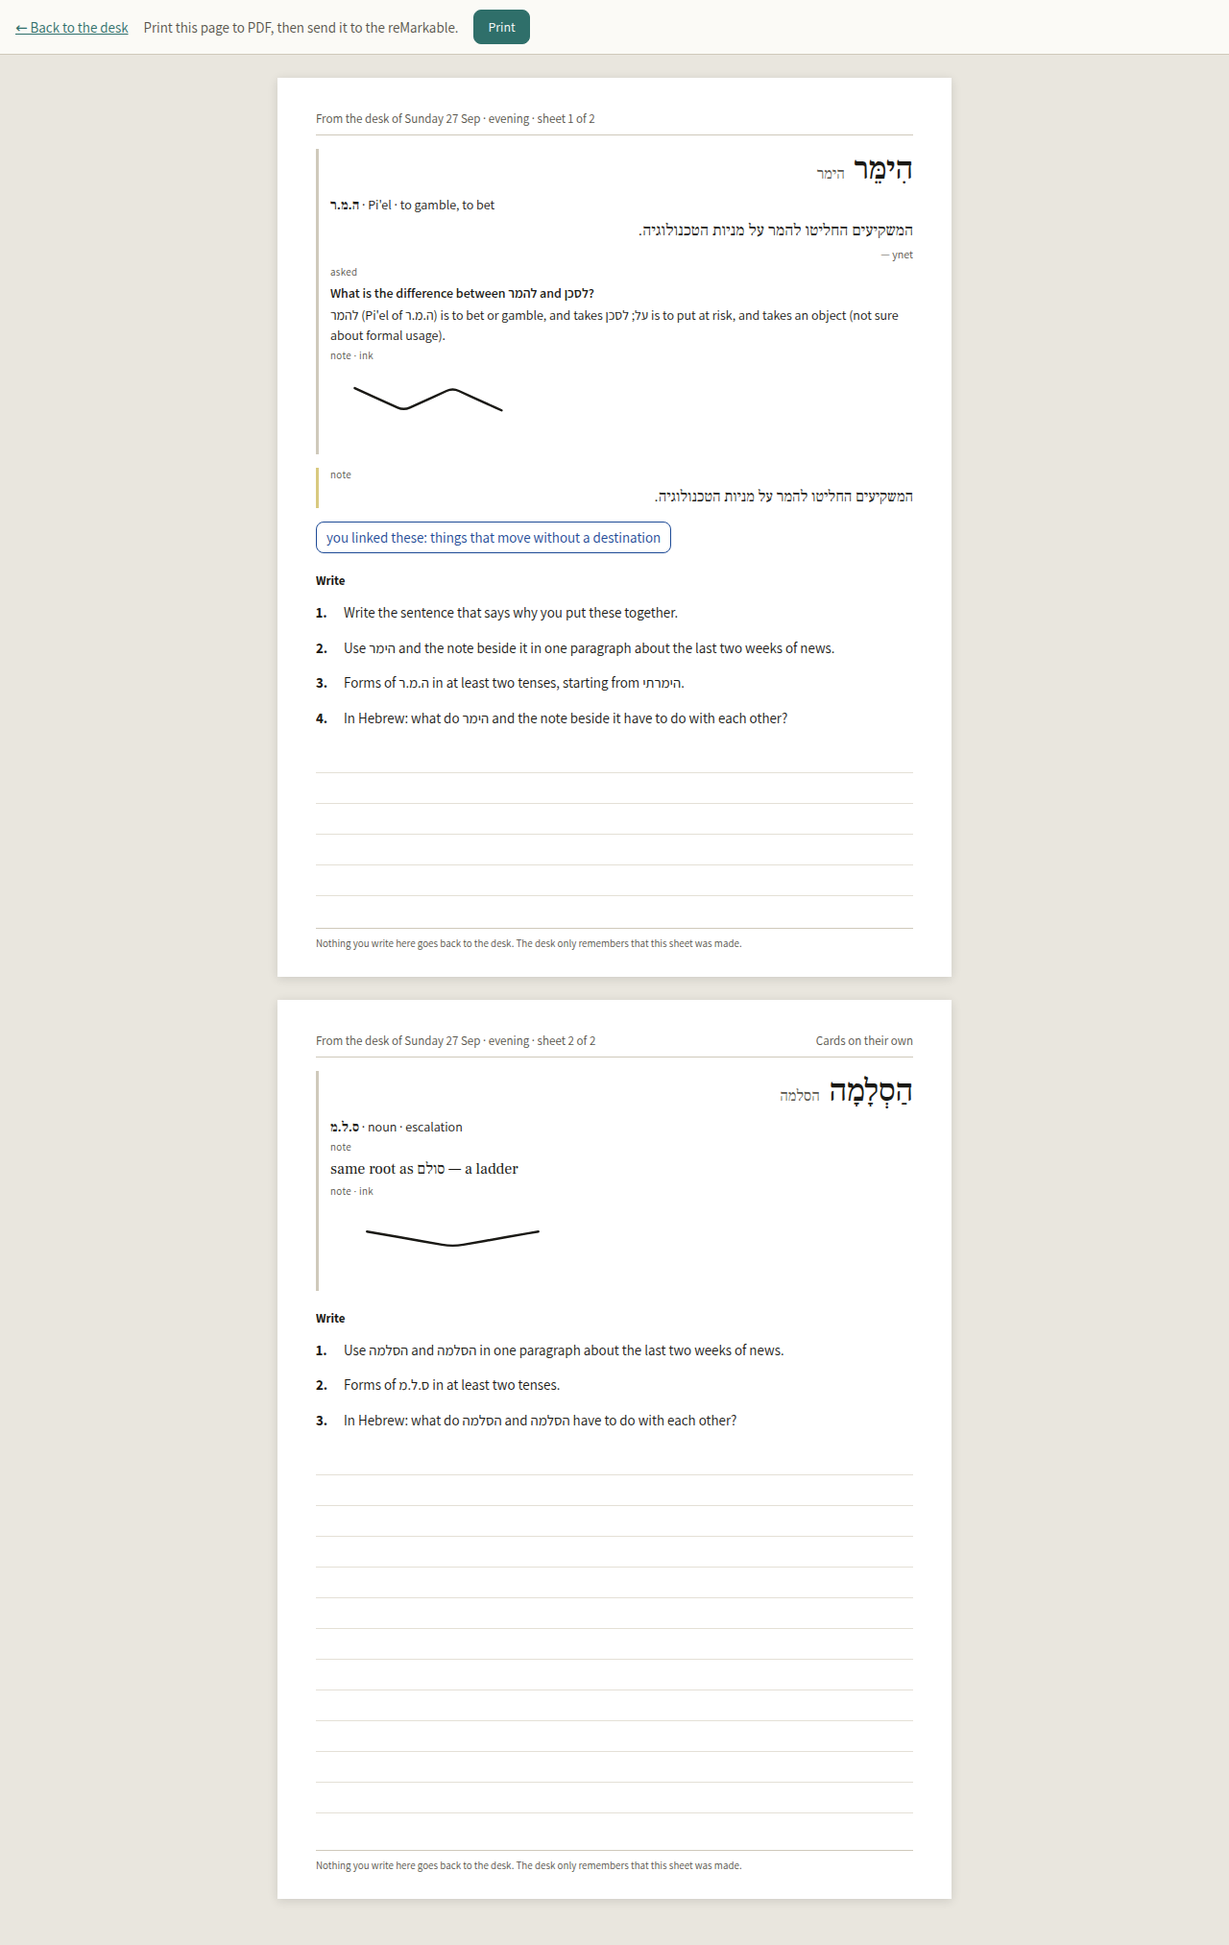
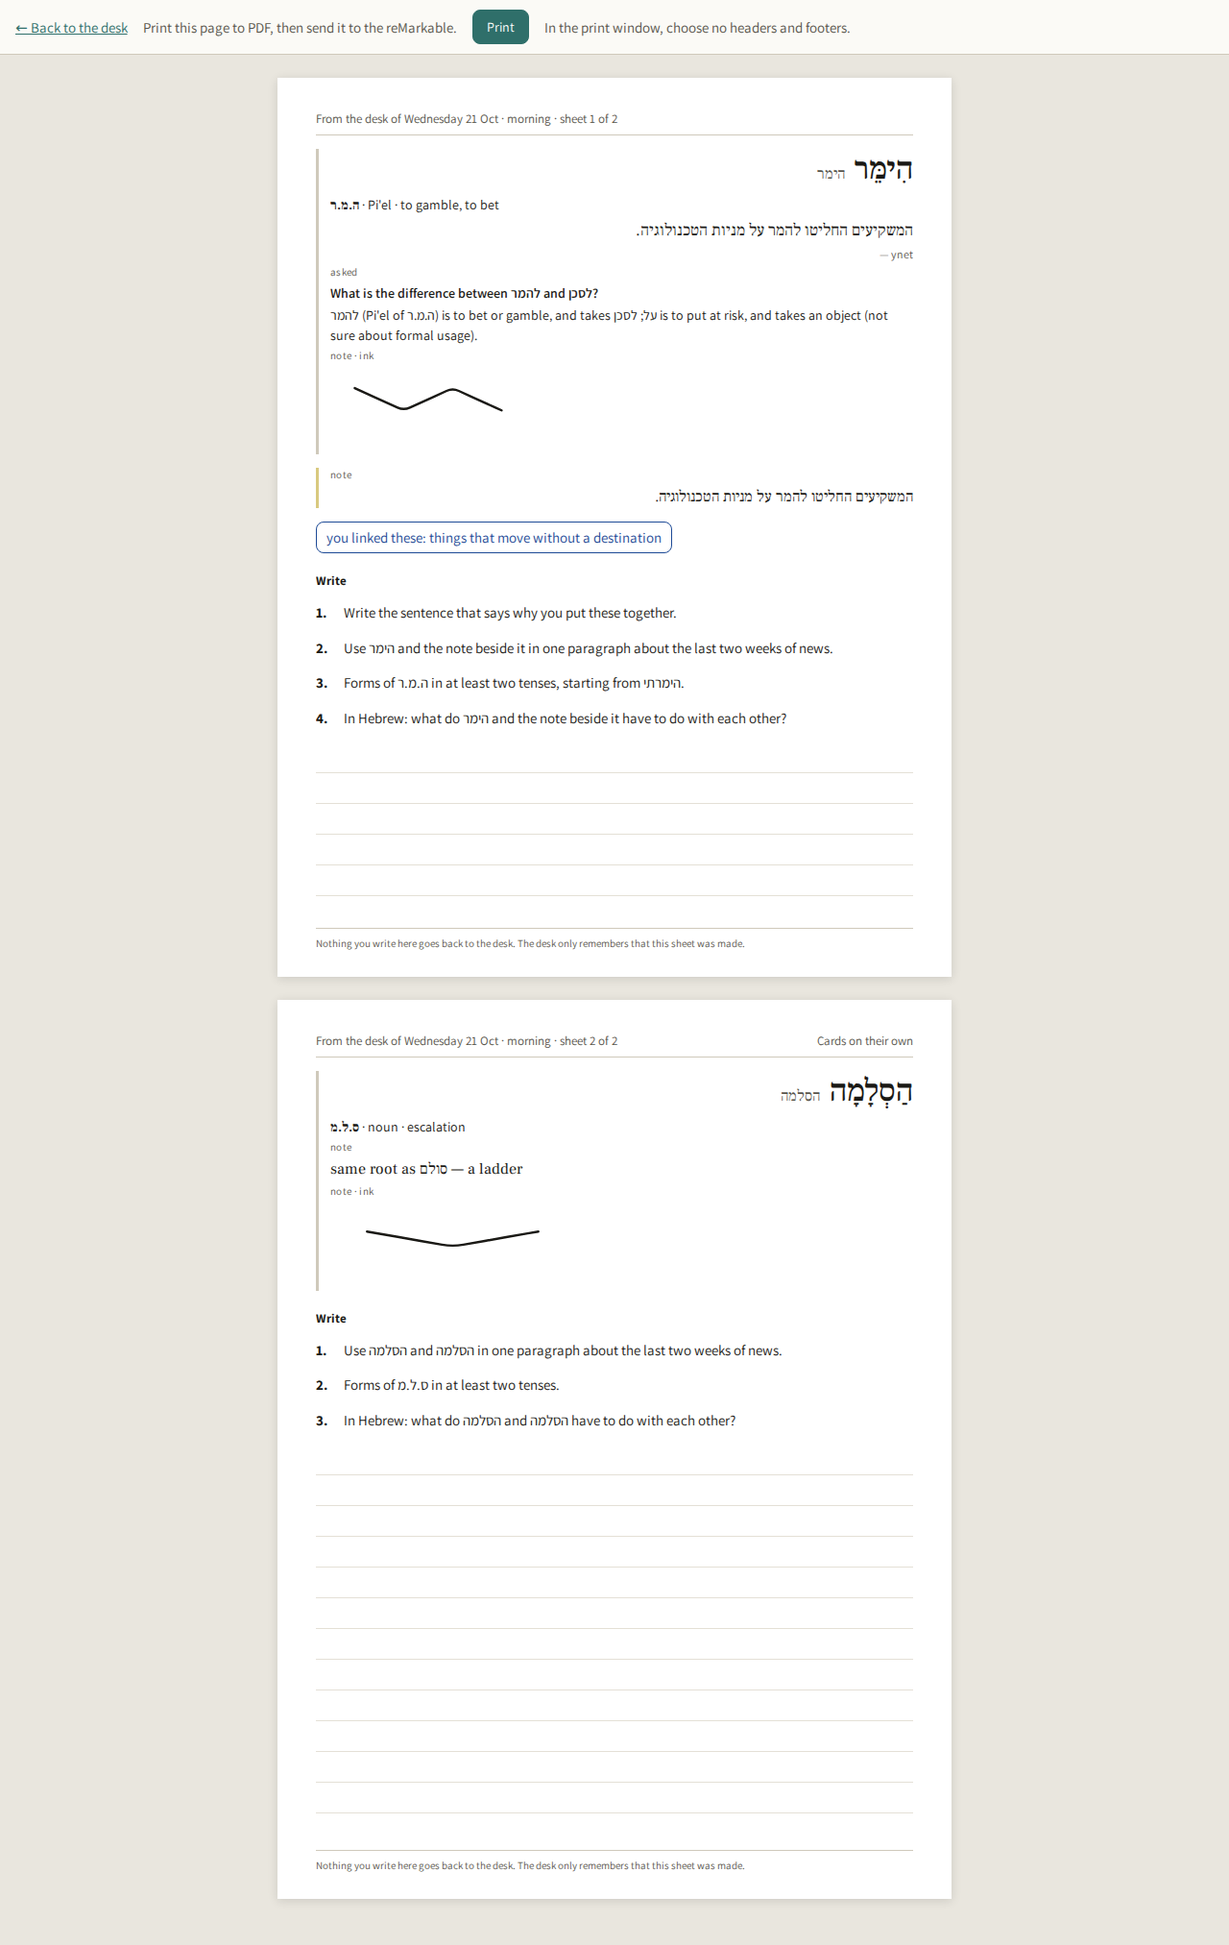
Ask step 5: checks for the empty note, the doubled address and the print line; counts in CHECKS.md (670 server, 580 page), PLAN.md close-out hebrew-ask-one, README on the ask surface and the pane

diff --git a/docs/CHECKS.md b/docs/CHECKS.md
@@ -10,8 +10,8 @@ screenshot scripts, unchanged.
 | Check | What it proves |
 | - | - |
 | syntax | Every `.js`, `.mjs` and `.cjs` file outside `node_modules` parses (`node --check`, file by file). |
-| tests | `npm test` = `npm run smoke`: `scripts/smoke.mjs` (255 checks), `scripts/grow-smoke.mjs` (66), `scripts/paper-smoke.mjs` (81), `scripts/hunt-smoke.mjs` (39, "Find an article" against local news pages) and `scripts/lookup-smoke.mjs` (64, the Look up page and the references shown inside the reader, its redirect gate included, against local reference pages; about 25 s, because the 20-second fetch limit is timed for real) and `scripts/today-smoke.mjs` (142, the Today page's sets: choosing the words (shaky before new, new words judged once by the model, the easy ones skipped), each word's exercise and the source it names, its read or made-up sentence, answers with niqud, fresh passages, their length and the verb they blank, "Too easy", when a set is made, the 05:00 Tokyo scheduler, answers, Show and Undo, an older page's Undo refused; since hebrew-today-two: sets numbered by `seq` (the migration's back-fill, `for_day` "#2", "#3" for later sets the same day), "Another set" (`POST /today/another`, two at once making one set), the words of an unfinished set skipped, the pools when nothing more is due (shaky not yet due, then solid not yet due) and their note, "no data" only with no words, a word marked solid before it was ever drilled left out, the 05:00 build making a set only when none is unfinished; about 4 s; its day-dependent rules call `lib/today.js` in the check's own process with a seeded clock), each against a real server with local stand-ins for OpenRouter, the spine and the reference sites (`scripts/mock-openrouter.mjs`, `scripts/mock-spine.mjs`, `scripts/mock-references.mjs`). 647 in all (17 Oct 2026). |
-| screenshots | `npm run screenshots`: `scripts/screenshots.mjs` (229), `desk-pages.mjs` (47), `grow-pages.mjs` (66), `paper-pages.mjs` (53), `hunt-pages.mjs` (23), `lookup-pages.mjs` (44), `today-pages.mjs` (83; since hebrew-today-two also the "Done" screen's "Another set" button, "Building…", the new set at "1 of 10", and the answer choices stacked at phone width with every choice's text inside its button, a long third choice included) — every screen at phone and computer size, signing in through the form; 545 in all (17 Oct 2026). Needs Playwright's browser. The Checks run keeps the hunt's screenshots as the artifact `hunt-screenshots`. |
+| tests | `npm test` = `npm run smoke`: `scripts/smoke.mjs` (256 checks), `scripts/grow-smoke.mjs` (83; since hebrew-ask-one also the ask surface: an `asks` row for an accepted answer of each subject kind — article, card, root — and none for a desk ask refused without a citation, the answer layer pointing at its row, the Ask box's first shape `{ question, article_id }`, the refusals naming the valid desks and kinds, a follow-up carrying the earlier turns and a chain of seven carrying the last six, the reader's Ask box keeping an answer with no citation and its links the citations, and the seam: a stand-in second desk registered from the check through `node --require`, answering with its own persona and site), `scripts/paper-smoke.mjs` (86; since hebrew-ask-one also an empty note card left off the sheet and Chrome's doubled address in a shared line kept once with the selected text), `scripts/hunt-smoke.mjs` (39, "Find an article" against local news pages) and `scripts/lookup-smoke.mjs` (64, the Look up page and the references shown inside the reader, its redirect gate included, against local reference pages; about 25 s, because the 20-second fetch limit is timed for real) and `scripts/today-smoke.mjs` (142, the Today page's sets: choosing the words (shaky before new, new words judged once by the model, the easy ones skipped), each word's exercise and the source it names, its read or made-up sentence, answers with niqud, fresh passages, their length and the verb they blank, "Too easy", when a set is made, the 05:00 Tokyo scheduler, answers, Show and Undo, an older page's Undo refused; since hebrew-today-two: sets numbered by `seq` (the migration's back-fill, `for_day` "#2", "#3" for later sets the same day), "Another set" (`POST /today/another`, two at once making one set), the words of an unfinished set skipped, the pools when nothing more is due (shaky not yet due, then solid not yet due) and their note, "no data" only with no words, a word marked solid before it was ever drilled left out, the 05:00 build making a set only when none is unfinished; about 4 s; its day-dependent rules call `lib/today.js` in the check's own process with a seeded clock), each against a real server with local stand-ins for OpenRouter, the spine and the reference sites (`scripts/mock-openrouter.mjs`, `scripts/mock-spine.mjs`, `scripts/mock-references.mjs`). 670 in all (21 Oct 2026; 647 before hebrew-ask-one). |
+| screenshots | `npm run screenshots`: `scripts/screenshots.mjs` (231; the reader's Ask box drawing the cited pages and "Ask more"), `desk-pages.mjs` (47), `grow-pages.mjs` (98; since hebrew-ask-one also the ask pane on the reader's card and the phone page's card at 390 px and 1280 px, light and dark — closed, open with nothing fetched, after "Ask", after "Ask more", a tab open — the action row's top unchanged when it opens and closes, "Ask" at least 56 px high on the phone), `paper-pages.mjs` (54; the print line by the Print button), `hunt-pages.mjs` (23), `lookup-pages.mjs` (44; "Ask about this root" now on the Look up page's card, opening the pane), `today-pages.mjs` (83; since hebrew-today-two also the "Done" screen's "Another set" button, "Building…", the new set at "1 of 10", and the answer choices stacked at phone width with every choice's text inside its button, a long third choice included) — every screen at phone and computer size, signing in through the form; 580 in all (21 Oct 2026; 545 before hebrew-ask-one). Needs Playwright's browser. The Checks run keeps the hunt's screenshots as the artifact `hunt-screenshots`. |
 | (by hand) the frame test | `node scripts/reference-frames.mjs`: asks the seven live reference sites whether they can be framed. Not in `npm run check` (it reaches the live sites); its last result is in `docs/REFERENCES.md`. |
 
 The fast tests, `npm run test:fast`, are grow, paper and hunt only:
@@ -54,6 +54,7 @@ On the rented Linux machine (`agent-machine-dan`, Node 24.21.0), 3 Oct
 | `npm run check`, everything (9 Oct 2026, hebrew-lookup-one, Playwright 1.63 with its browser installed in the session's own cache) | syntax 3.22 s, tests 68.16 s, screenshots 196.21 s | by hand |
 | `npm run check`, everything (16 Oct 2026, hebrew-today-one, the Today checks added) | syntax 2.90 s, tests 76.71 s, screenshots 241.65 s | by hand |
 | `scripts/today-smoke.mjs` alone (16 Oct 2026) | 3.05 s | workflow (and full run) |
+| `npm run check`, everything (21 Oct 2026, hebrew-ask-one, the ask surface and the ask pane added) | syntax 2.89 s, tests 74.93 s, screenshots 256.86 s | by hand |
 
 Known flaky (9 Oct 2026, hebrew-lookup-one): `paper-pages.mjs` fails about
 1 run in 10 on this machine, on `main` as well (2 of 20 runs there): "Back

diff --git a/PLAN.md b/PLAN.md
@@ -1417,3 +1417,102 @@ text.
   width with every choice's text inside its button, a long third choice in
   the stand-in's passage question); totals 647 server checks and 545 page
   checks.
+
+## hebrew-ask-one (21 Oct 2026, the rented Linux machine, OpenRig team): one ask surface, and "Ask about this root" inside the page
+
+**Dan's screens changed.** "Ask about this root" on a word card no longer
+opens Pealim and Wiktionary in two new tabs: it opens a pane directly under
+the card's buttons, in the card, on every page with a word card (the
+reader, the lesson page, the phone page, Today, the Look up page — where the
+button was hidden until now — and the desk's opened card). Top to bottom:
+the root in Hebrew (the dictionary form for a word with no root) and
+"Close"; two tabs, "Pealim" and "Wiktionary", that show the reference inside
+the pane as the Look up page does (Pealim by the root letters, Wiktionary by
+the dictionary form, as before); a box, "a question about this root…", and
+"Ask"; the answer with the pages it leaned on; then "Ask more". The reader's
+Ask box now searches the references too: its links are the pages the
+search cited (the reference's name and the page's title), and "Ask more"
+under an answer asks a follow-up. An answer with nothing cited is still an
+answer there, with "Nothing here to look up in a reference."
+
+- **One ask surface** (`lib/ask.js`). Every question is answered by `ask`:
+  the reader's Ask box and the root ask through `POST /ask`, the desk's "Ask
+  here" through `POST /card/:key/ask` (`askCard`, which also writes the
+  answer layer). An ask has three parts: a **subject** — `article`
+  (`article_id`, optional: the piece's mapped words go into the question, as
+  before), `card` (`key`: the desk card's entry and layers, `grow.context`),
+  `root` (`root`, `lemma`, `lemma_pointed`, `binyan` or `pos`, `meaning_en`,
+  `sentence`, from the card the page holds; a root or a lemma needed); a
+  **desk** — who answers and what it may search; and an optional
+  **parent** — the earlier ask a follow-up follows. With a parent, the
+  model is sent the chain's earlier questions and answers as conversation
+  turns (`lookup.chat`'s new `history`, oldest first, the last six turns)
+  before the subject and the new question. A follow-up goes to its parent's
+  desk (another desk: 400). One model call with OpenRouter's web search
+  limited to the desk's sites; the links are the citations (`grow.linksFrom`),
+  never an address the model wrote (`lib/references.js` still builds the
+  "Look up in" links). Whether an answer with no citation is kept is the
+  caller's choice, passed in (`keepWithoutLink`): kept for the Ask box and
+  the root ask (session three), refused with session thirteen's 422 for
+  "Ask here". `POST /ask` takes `{ desk?, subject, question, parent? }` and
+  answers `{ id, answer, links, searches, state, links_state }`; the first
+  shape `{ question, article_id? }` is the article subject on the hebrew
+  desk. Refusals name the valid values: "desk must be one of hebrew",
+  "subject.kind must be one of article, card, root". A card asked through
+  `POST /ask` is recorded in `asks` but writes no answer layer: only "Ask
+  here" puts an answer on a card.
+- **The desks** (`lib/ask-desks.js`): `{ id, persona, domains, model,
+  limits }`. One desk, `hebrew`: the persona from session thirteen's "Ask
+  here" text (the subject's own line and the answer's JSON shape are added
+  by `lib/ask.js`), the seven references' domains, the card model and
+  `grow.ASK`'s limits (900 tokens, 55 s); no new limit. `register(desk)`
+  adds a desk; the check registers a stand-in second desk through `node
+  --require` before the server starts, with no change to `server.js` or
+  `lib/ask.js`.
+- **The record** (in `migrate()`, nothing dropped or moved): a new table
+  `asks(id, desk, subject_kind, subject_text, word, question, answer,
+  links_json, searches, parent_id, asked_at)` by `CREATE TABLE IF NOT
+  EXISTS` (indexes on `word` and `parent_id`), and `answers.ask_id` by
+  `ALTER TABLE … ADD COLUMN` (existing rows: null). Every accepted answer is
+  one `asks` row (`subject_text` as the model was given it; `word`, the
+  dictionary form, for a root or a card); "Ask here" writes its `asks` row
+  and its answer layer in one transaction, the layer pointing at the row. A
+  refused or declined ask writes nothing.
+- **What a second desk needs** (the guided study Dan intends): one
+  `register({ id, persona, domains })` entry — its persona (the guide who
+  explains, flags where scholars disagree, gives an opinion and takes push
+  back), its sites (Sefaria, say), and a model and limits if not the
+  card model's; a subject kind for its text (a passage, with a reference and
+  its translation), added to `KINDS` and `subjectOf` in `lib/ask.js`; and a
+  screen. The follow-up chain is already there for the push back. The pane
+  would need the text and its translation side by side, which it does not
+  have: it is built around one word card.
+- **The pane** (`public/ask-ui.js`; `CardUI.wire` takes the page's `api`).
+  Nothing is fetched on opening (rule 3): a reference loads on its tab's
+  tap, the model is asked on "Ask". A tab opened from the pane is recorded
+  as a lookup on the word's desk card when the word's card is on a desk
+  (`desk_key`, which `POST /lookup` and the phone page's demand answers now
+  carry; the Look up page records it on its own card with origin `lookup`,
+  as its tabs do; the desk's opened card on itself); a word with no desk
+  card records nothing. The card's buttons stay at the same height on the
+  screen when the pane opens and closes (rule 5). On a card anchored to the
+  bottom of the screen — the reader's and the lesson page's card on the
+  phone — growing would push the buttons up, so that card keeps its height
+  while the pane is open and the pane opens below the buttons inside the
+  card, which scrolls; Close gives the card its height back. A new word on
+  the card closes the pane. On the phone the pane is the card's full width
+  and "Ask" is 56 px high.
+- **Four small fixes.** The reader's Ask box onto the web search (above).
+  An empty note card — no text, nothing kept, asked, noted or drawn on it —
+  is left off the sheet (`lib/sheet.js`; a desk of only such notes makes no
+  sheet and says why). A line shared from Chrome with the page's address
+  twice, plain and with the selection coded in after `#:~:text=`, keeps the
+  plain address once and the selected text as the line's text
+  (`catch.share`, called by `POST /desks/catch`; with only the coded address
+  the selection is read back from it). The sheet page says by its Print
+  button: "In the print window, choose no headers and footers." (the bar
+  does not print).
+- **Checks**: `grow-smoke.mjs` 83, `smoke.mjs` 256, `paper-smoke.mjs` 86,
+  `screenshots.mjs` 231, `grow-pages.mjs` 98, `paper-pages.mjs` 54,
+  `lookup-pages.mjs` 44 (its check that the button was hidden now opens
+  the pane); totals 670 server checks and 580 page checks.

diff --git a/README.md b/README.md
@@ -14,8 +14,8 @@ Saving or marking a word records a "spot" on the map. Every card opened is a
 It runs on a desktop screen and on an Android phone. A phone page (`/phone`)
 hands him a sentence from something he has read with the verb blanked and
 asks for the form; an Ask box in the reader sends a question to the
-references (Pealim, Milog, Morfix, Wiktionary, the Academy) and links each
-claim; a lesson sheet gathers the words he keeps meeting. Lessons from his
+references, which are searched for the answer, and lists the pages the
+answer leaned on; a lesson sheet gathers the words he keeps meeting. Lessons from his
 tutor Guy come in as PDFs: the app makes the study guide and the flashcards
 by Dan's own lesson instructions (`docs/guy-lessons/`) and saves each
 single-word item to the map; each guide is checked against five rules and
@@ -50,6 +50,18 @@ a pane under the row too. A site that lets itself be framed shows its own
 page; one that does not is shown from a cleaned copy the reader fetches on
 the tap and keeps seven days (`docs/REFERENCES.md` says which is which, and
 why).
+
+Every question is answered in one place, the ask surface (`lib/ask.js`,
+since hebrew-ask-one): the reader's Ask box, "Ask here" on a desk card, and
+"Ask about this root" on a word card. Each question goes to a desk
+(`lib/ask-desks.js`; one so far, the Hebrew references), which searches
+only its own sites, and the links under an answer are the pages that search
+cited. Every answer kept is recorded, and "Ask more" asks a follow-up with
+the earlier questions and answers given first. "Ask about this root" opens a
+pane under the card's buttons, on every page with a word card: the root in
+Hebrew, Pealim and Wiktionary as two tabs shown inside the pane, and a
+question box with "Ask". Nothing loads until he taps a tab or "Ask", and the
+card's buttons stay where they were when the pane opens and closes.
 
 The Today page (`/today`, "Today" in the top navigation) brings his material
 back to him, phone first, one item at a time: each day a set of ten, made by
@@ -86,8 +98,8 @@ the environment variables, and how the app talks to the spine.
 ## Layout
 
 - `server.js` — one plain Node server: the passphrase gate, the JSON routes, static files.
-- `lib/` — database, auth, rate limit, article extraction, the word card (OpenRouter), the spine client, the category list, the demand, the ask surface and its reference list, the lesson sheet, the lesson guide and its rule checks (`guide-checks.js`), the desk and a card's layers (`desk.js`), the two web-search calls that grow a card (`grow.js`), the sheet's writing prompts (`sheet.js`), a caught link's title (`catch.js`), the Look up page (`lookup-page.js`), a reference shown inside the reader (`reference-pages.js`), and Today's daily drills (`today.js`).
-- `public/` — the pages: `index.html` (articles + add form), `today.html` (Today's drills), `lookup.html` (the Look up page; `reference-ui.js` is the reference pane it shares with the desk), `read.html?id=…` (the reader), `phone.html` (the demand and quick lookup), `sheet.html` (the print sheet; `?lesson=` for a lesson's guide), `lesson.html?id=…` (a lesson from Guy and its study guide), `cards.html?lesson=…` (its flashcards), `login.html`; `card-ui.js` is the card shared by the reader, the lesson page and the phone page, `guide-ui.js` the study guide shared by the lesson page and its print sheet; `desk.html` the desk, with `grow-ui.js` for a card's layers and `ink-ui.js` for drawing; `desk-sheet.html` the sheet for the reMarkable; `manifest.webmanifest`, `sw.js` and `install.js` make the site installable with a share target.
+- `lib/` — database, auth, rate limit, article extraction, the word card (OpenRouter), the spine client, the category list, the demand, the ask surface (`ask.js`) and its desks (`ask-desks.js`) and reference list, the lesson sheet, the lesson guide and its rule checks (`guide-checks.js`), the desk and a card's layers (`desk.js`), the two web-search calls that grow a card (`grow.js`), the sheet's writing prompts (`sheet.js`), a caught link's title (`catch.js`), the Look up page (`lookup-page.js`), a reference shown inside the reader (`reference-pages.js`), and Today's daily drills (`today.js`).
+- `public/` — the pages: `index.html` (articles + add form), `today.html` (Today's drills), `lookup.html` (the Look up page; `reference-ui.js` is the reference pane it shares with the desk), `read.html?id=…` (the reader), `phone.html` (the demand and quick lookup), `sheet.html` (the print sheet; `?lesson=` for a lesson's guide), `lesson.html?id=…` (a lesson from Guy and its study guide), `cards.html?lesson=…` (its flashcards), `login.html`; `card-ui.js` is the card shared by the reader, the lesson page and the phone page, with `ask-ui.js` its ask pane, `guide-ui.js` the study guide shared by the lesson page and its print sheet; `desk.html` the desk, with `grow-ui.js` for a card's layers and `ink-ui.js` for drawing; `desk-sheet.html` the sheet for the reMarkable; `manifest.webmanifest`, `sw.js` and `install.js` make the site installable with a share target.
 - `scripts/import-lessons.js` — bulk import of Guy's PDFs from a folder into the site (see `PLAN.md`).
 - `scripts/` — local checks: smoke test, screenshots, mock servers for OpenRouter and the spine; sample lesson PDFs in `scripts/fixtures/`, made by `make-fixtures.mjs`.
 - `docs/` — screenshots and session reports.
